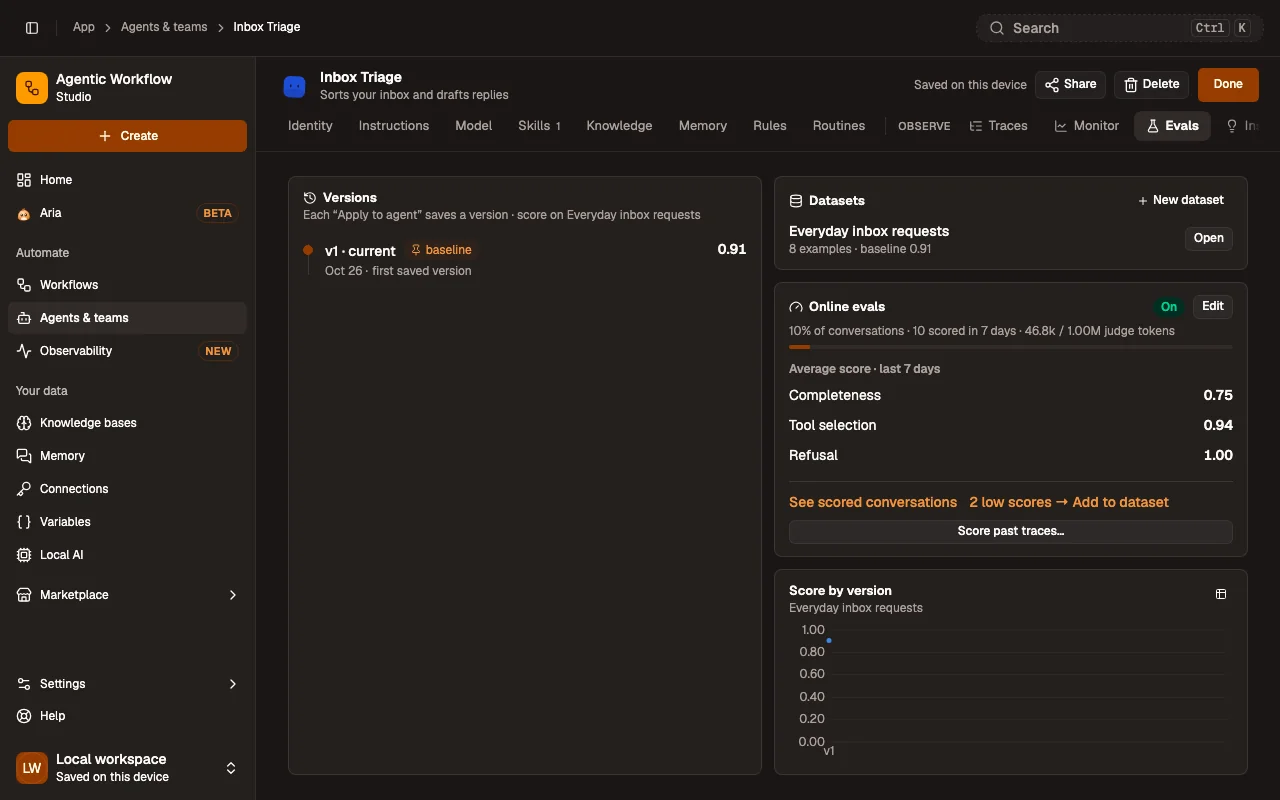
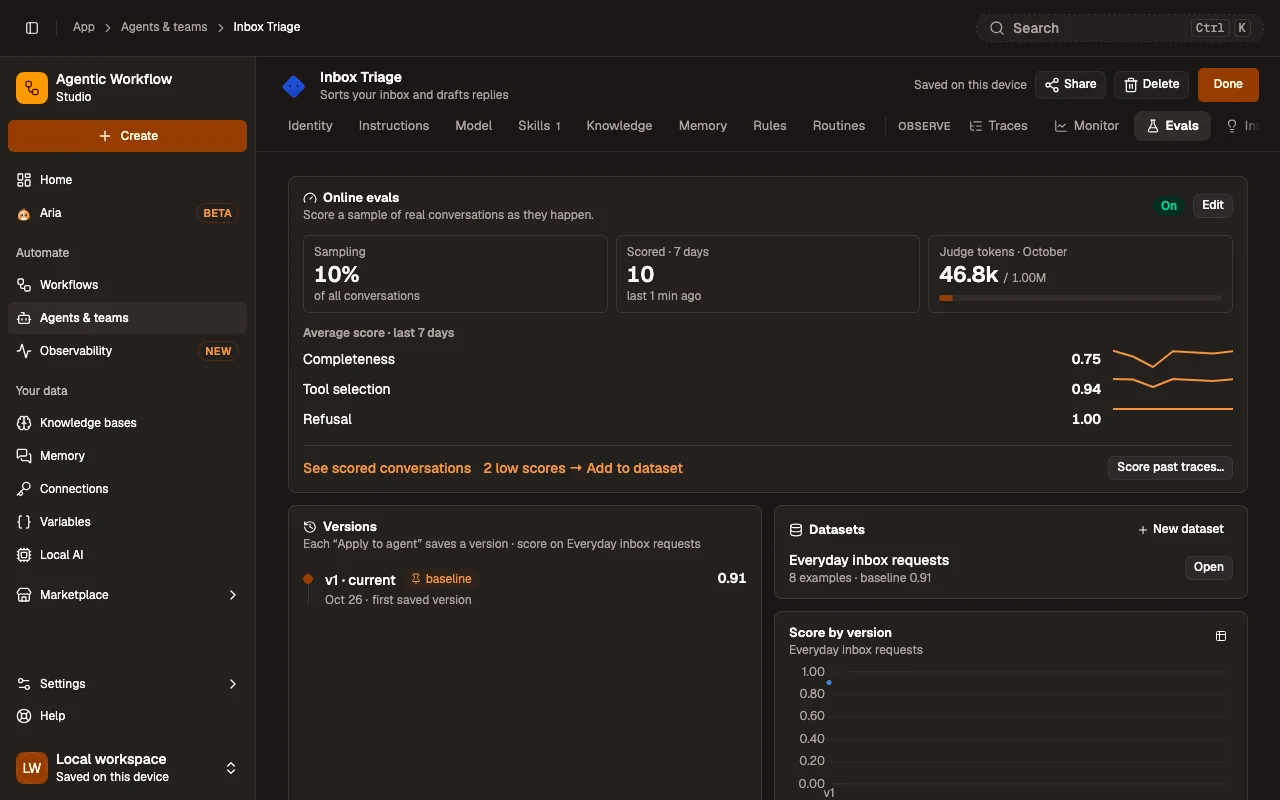
docs(observability): online evals wide card, cap field and score preview
Refs awflow/Agentic-Flow#1618

Claude-Session: https://claude.ai/code/session_0142yn9CKycTbdqD5wPLe1Zo

diff --git a/scripts/capture/import-e2e.ts b/scripts/capture/import-e2e.ts
@@ -626,7 +626,7 @@ const SHOTS: Record<string, Def> = {
 		source: 'obs-online-setup-1280',
 		page: 'app/observability/online-evals',
 		route: '#/app/agents/<id>?tab=evals (Online evals › Set up)',
-		alt: 'Inbox Triage’s Evals tab with the Online evals setup open on the right: Score live conversations on; How many at 10%, less than 1 a day from the last 14 days; Which conversations with All selected, then Failed, With 👎, Chat and Routines; Evaluators with Completeness, Tool selection and Refusal ticked and the other judges unticked, + Add evaluator and a note that Correctness isn’t offered because it needs an expected answer; Judge model Agent’s model and Monthly cap 1000000; an estimate of about 9.6k judge tokens a month that also count toward the agent’s budget, a note that a cloud judge’s provider receives each scored conversation, then Cancel and Save.',
+		alt: 'Inbox Triage’s Evals tab with the Online evals setup open on the right: Score live conversations on; How many at 10%, less than 1 a day from the last 14 days; Which conversations with All selected, then Failed, With 👎, Chat and Routines; Evaluators with Completeness, Tool selection and Refusal ticked and the other judges unticked, + Add evaluator and a note that Correctness isn’t offered because it needs an expected answer; Judge model Agent’s model and Monthly cap 1 000 000 (1.00M judge tokens a month); an estimate of about 9.6k judge tokens a month that also count toward the agent’s budget, a note that a cloud judge’s provider receives each scored conversation, then Cancel and Save.',
 		spots: {
 			sheet: { label: 'The Online evals setup' },
 			rate: { label: 'How many' },
@@ -639,7 +639,7 @@ const SHOTS: Record<string, Def> = {
 		source: 'obs-online-card-1280',
 		page: 'app/observability/online-evals',
 		route: '#/app/agents/<id>?tab=evals',
-		alt: 'Inbox Triage’s Evals tab with the Online evals card On: 10% of conversations · 10 scored in 7 days · 46.8k / 1.00M judge tokens with a meter; Average score · last 7 days: Completeness 0.75, Tool selection 0.94, Refusal 1.00; the links See scored conversations and 2 low scores → Add to dataset, the Score past traces… button, and Edit at the top.',
+		alt: 'Inbox Triage’s Evals tab with the Online evals card as a full-width row above Versions and Datasets, On: tiles Sampling 10% of all conversations, Scored · 7 days 10 (last 1 min ago) and Judge tokens · October 46.8k / 1.00M with a meter; Average score · last 7 days with a 7-day trend line each: Completeness 0.75, Tool selection 0.94, Refusal 1.00; the links See scored conversations and 2 low scores → Add to dataset, the Score past traces… button, and Edit at the top.',
 		spots: {
 			card: { label: 'Online evals card' },
 			edit: { label: 'Edit' },
